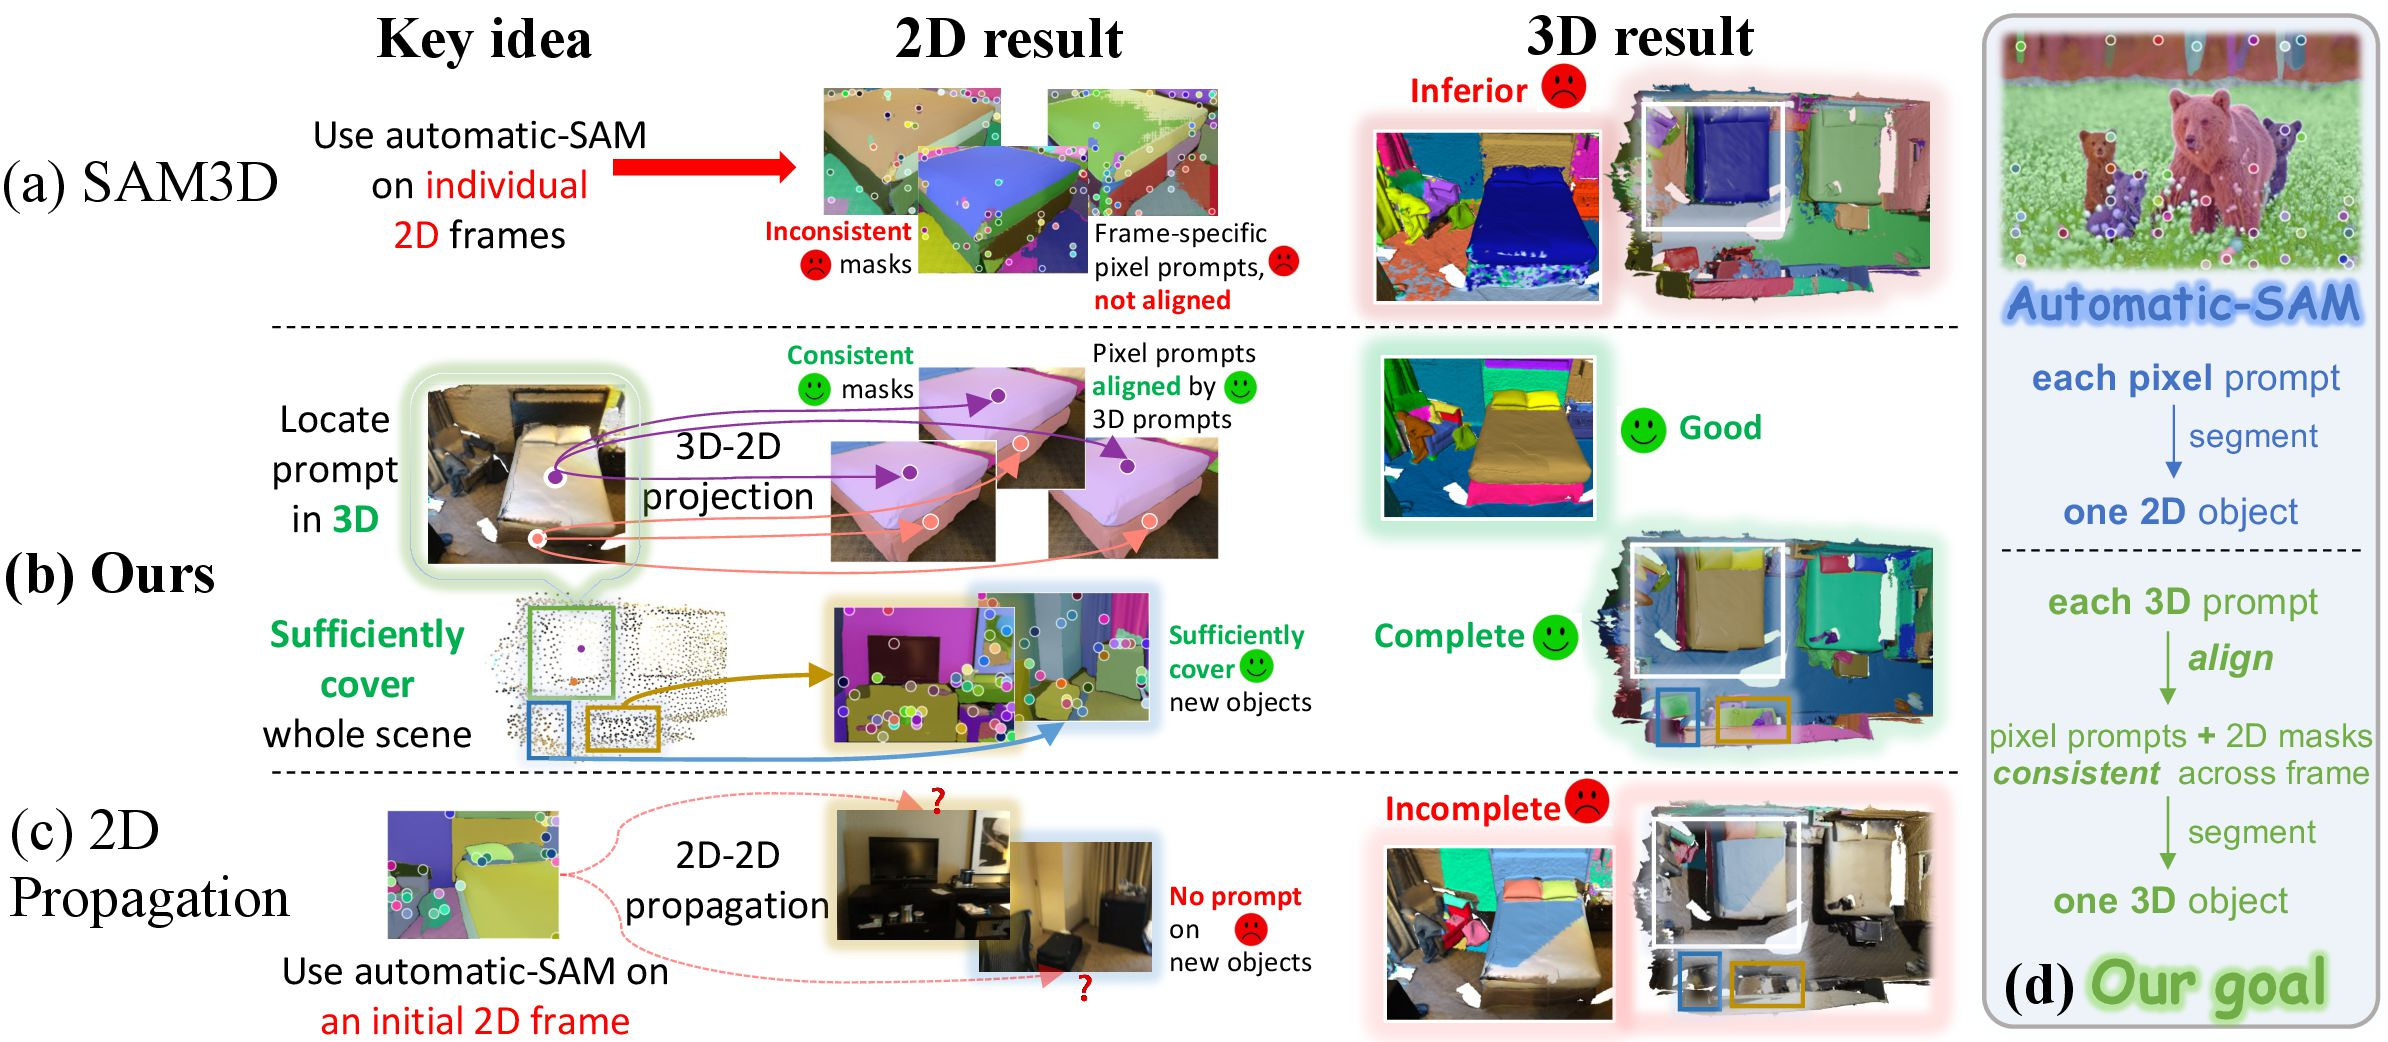
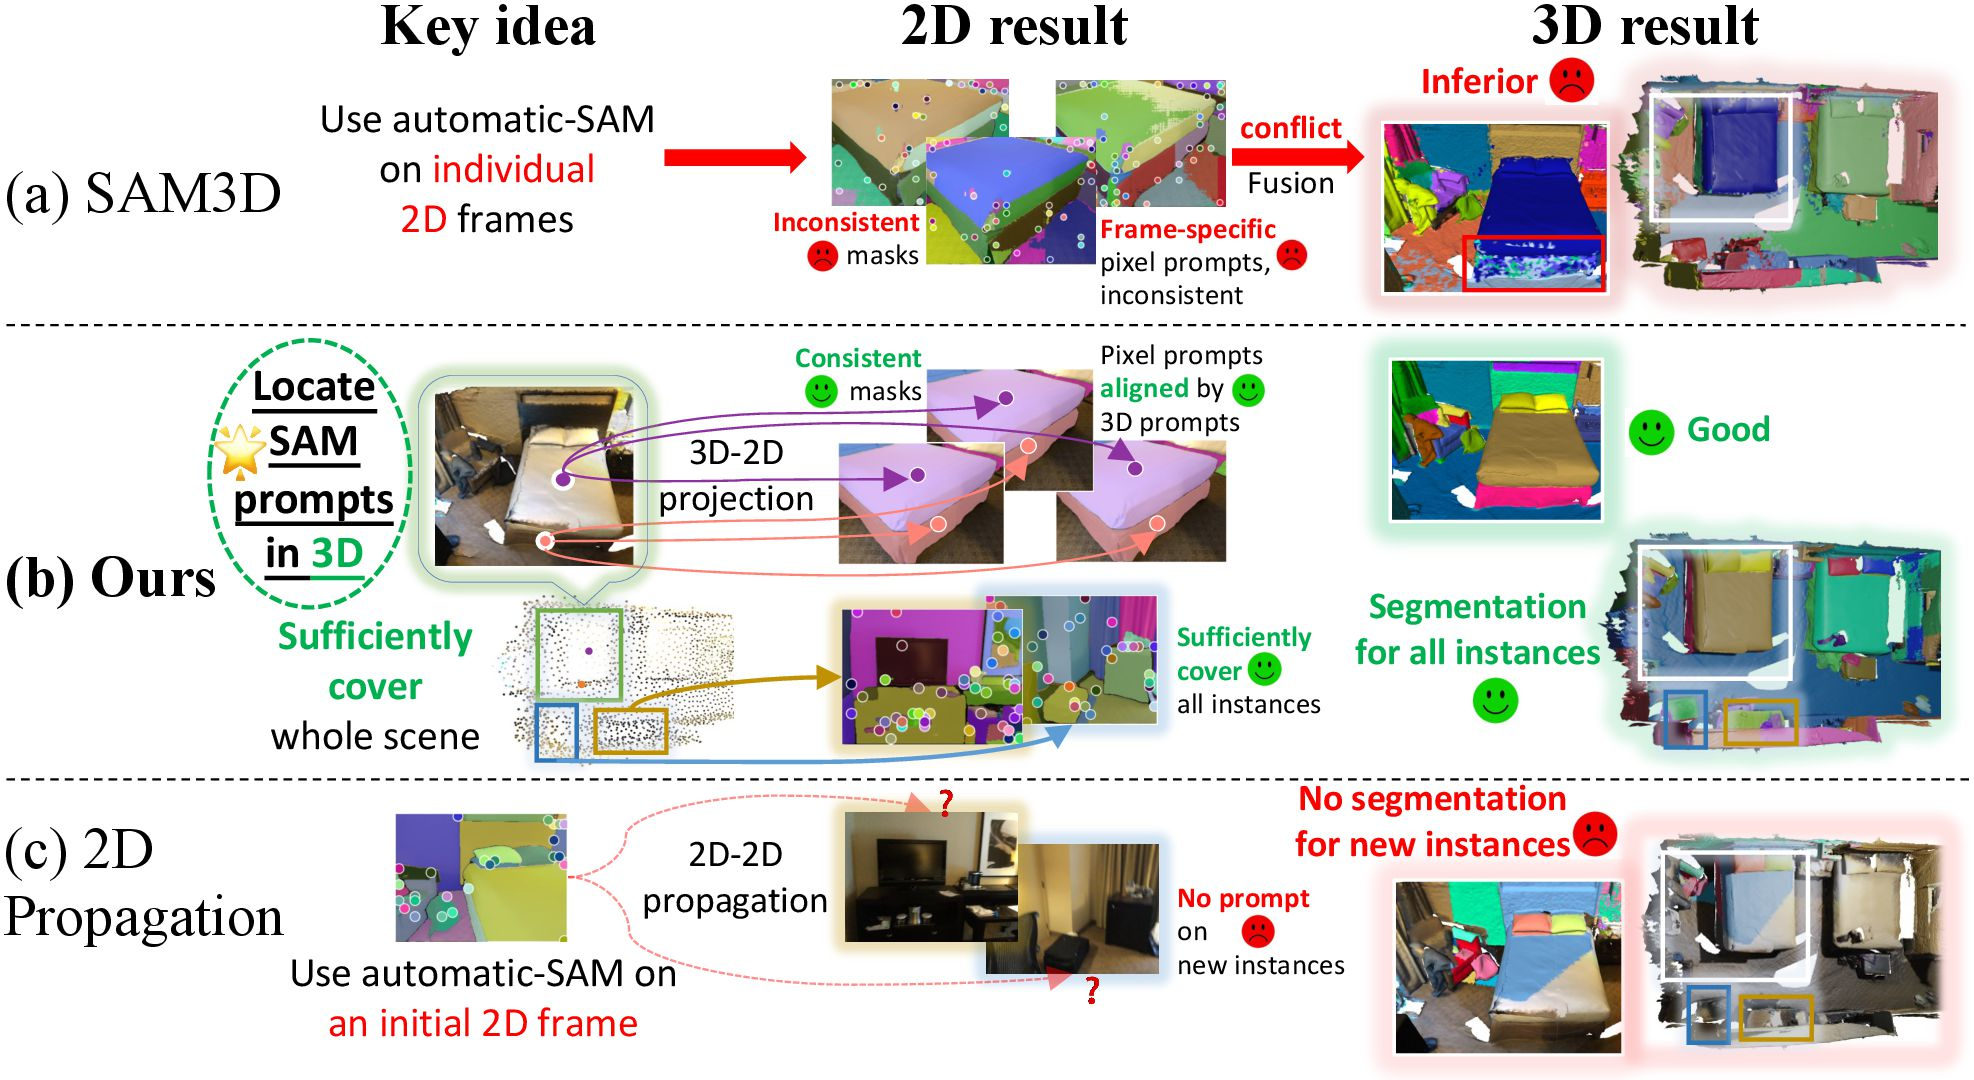
new_3DV

diff --git a/index.html b/index.html
@@ -53,7 +53,7 @@
         <div class="columns is-centered">
           <div class="column has-text-centered">
             <img src="static/images/icon_final.jpg" alt="" width="250" height="70"/>
-            <h1 class="title is-1 publication-title">SAMPro3D: Locating SAM Prompts in 3D for Zero-Shot Scene Segmentation</h1>
+            <h1 class="title is-1 publication-title">SAMPro3D: Locating SAM Prompts in 3D for Zero-Shot Instance Segmentation</h1>
             <div class="is-size-5 publication-authors">
               <!-- Paper authors -->
               <span class="author-block">
@@ -77,6 +77,9 @@
                     <span class="author-block"><sup>3</sup>Microsoft Research Asia</span>
                     <span class="eql-cntrb"><small><br><sup>†</sup>Corresponding Author</small></span>
                   </div>
+                  
+
+                  <br><h3 class="title is-3"><i><font color="LightSeaGreen">3DV 2025</font></i></h3>
 
                   <div class="column has-text-centered">
                     <div class="publication-links">
@@ -139,7 +142,7 @@
         <!-- Your image here -->
         <img src="static/images/teaser.jpg" alt="MY ALT TEXT"/>
       <h2 class="subtitle has-text-centered">
-        We introduce <b><i><font color="SlateBlue">SAMPro3D</font></i></b> for <i>zero-shot</i> 3D indoor scene segmentation.
+        We introduce <b><i><font color="SlateBlue">SAMPro3D</font></i></b> for <i>zero-shot</i> 3D instance segmentation.
       </h2>
     </div>
   </div>
@@ -170,9 +173,14 @@
         <h2 class="title is-3">Abstract</h2>
         <div class="content has-text-justified">
           <p>
-            We introduce SAMPro3D for zero-shot 3D indoor scene segmentation. Given the 3D point cloud and multiple posed 2D frames of 3D scenes, our approach segments 3D scenes by applying the pretrained Segment Anything Model (SAM) to 2D frames. Our key idea involves locating 3D points in scenes as natural 3D prompts to align their projected pixel prompts across frames, ensuring frame-consistency in both pixel prompts and their SAM-predicted masks.
-Moreover, we suggest filtering out low-quality 3D prompts based on feedback from all 2D frames, for enhancing segmentation quality. We also propose to consolidate different 3D prompts if they are segmenting the same object, bringing a more comprehensive segmentation. 
-Notably, our method does <b><font color="Tomato">not</font></b> require any additional training on domain-specific data, enabling us to preserve the zero-shot power of SAM. Extensive qualitative and quantitative results show that our method consistently achieves higher quality and more diverse segmentation than previous zero-shot or fully supervised approaches, and in many cases even surpasses human-level annotations.
+            We introduce SAMPro3D for zero-shot instance segmentation of 3D scenes. Given the 3D point cloud and multiple posed RGB-D frames of 3D scenes, 
+            our approach segments 3D instances by applying the pretrained Segment Anything Model (SAM) to 2D frames. 
+            Our key idea involves locating SAM prompts in 3D to align their projected pixel prompts across frames, ensuring the view consistency of SAM-predicted masks. 
+            Moreover, we suggest selecting prompts from the initial set guided by the information of SAM-predicted masks across all views, which enhances the overall performance. 
+            We further propose to consolidate different prompts if they are segmenting different surface parts of the same 3D instance, bringing a more comprehensive segmentation. 
+            Notably, our method does <b><font color="Tomato">not</font></b> require any additional training. 
+            Extensive experiments on diverse benchmarks show that our method achieves comparable or better performance compared to previous zero-shot or fully supervised approaches, and in many cases surpasses human annotations. 
+            Furthermore, since our fine-grained predictions often lack annotations in available datasets, we present ScanNet200-Fine50 test data which provides fine-grained annotations on 50 scenes from ScanNet200 dataset.
           </p>
         </div>
       </div>
@@ -191,7 +199,8 @@ Notably, our method does <b><font color="Tomato">not</font></b> require any addi
         <!-- Your image here -->
         <img src="static/images/key_idea.jpg" alt="MY ALT TEXT"/>
       <h2 class="subtitle has-text-centered">
-        The comparison of our <b>key idea</b> and others, as well as how they impact segmentation results.
+        <b>The comparison of our key idea and others</b>. Our method (b) <i>locates SAM prompts in <b>3D</b></i>, which aligns pixel prompts across
+        frames, bringing the frame consistency of prompts and their masks, and can handle newly emerged instances.
       </h2>
     </div>
   </div>
@@ -208,7 +217,10 @@ Notably, our method does <b><font color="Tomato">not</font></b> require any addi
         <!-- Your image here -->
         <img src="static/images/pipeline.jpg" alt="MY ALT TEXT"/>
       <h2 class="subtitle has-text-centered">
-        An <b>overview</b> of our framework, with a primary focus on <i>"prompt"</i>. We locate initial 3D prompts in input scenes, then project them onto 2D frames, where SAM is performed to obtain 2D segmentation masks. Later, the initial 3D prompts and their corresponding 2D masks are filtered and consolidated. Finally, we project all input points onto each segmented frame to obtain the 3D segmentation result. 
+        <b>An overview of our framework</b>, with a primary focus on <i>"<b>prompt</b>"</i>. 
+        Given 3D scene point clouds with posed RGB-D frames, we locate SAM prompts in input 3D scenes and project them onto 2D frames to obtain 2D segmentation masks. 
+        Later, the initial prompts and their masks are selected and consolidated, leveraging both multi-view and surface information. 
+        Finally, we project all input points onto each segmented frame to obtain the 3D segmentation result.
       </h2>
     </div>
   </div>
@@ -335,7 +347,7 @@ Notably, our method does <b><font color="Tomato">not</font></b> require any addi
         title={SAMPro3D: Locating SAM Prompts in 3D for Zero-Shot Scene Segmentation}, 
         author={Mutian Xu and Xingyilang Yin and Lingteng Qiu and Yang Liu and Xin Tong and Xiaoguang Han},
         year={2023},
-        journal = {arXiv preprint arXiv:2311.17707}
+        journal={arXiv preprint arXiv:2311.17707}
   }</code></pre>
     </div>
 </section>
